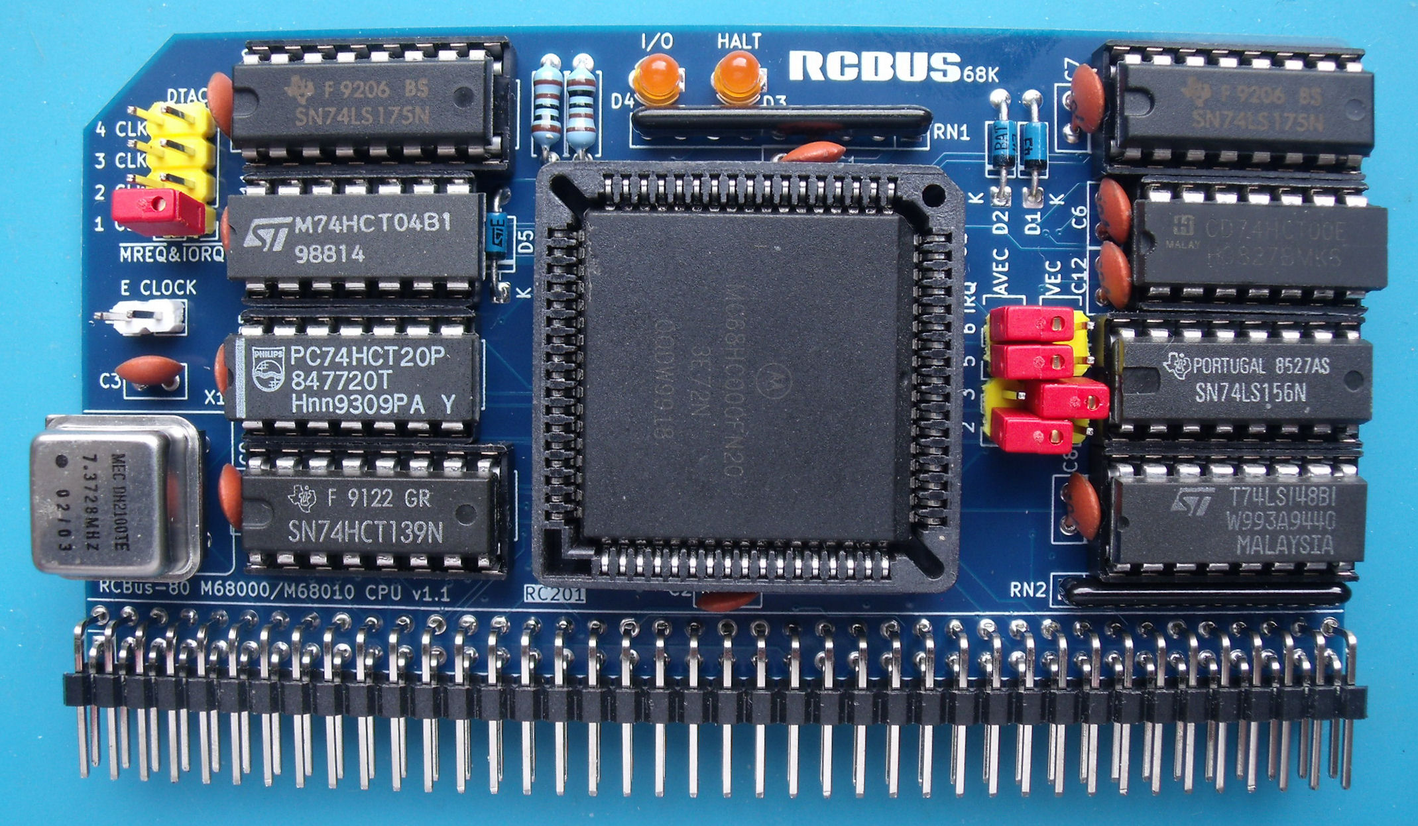
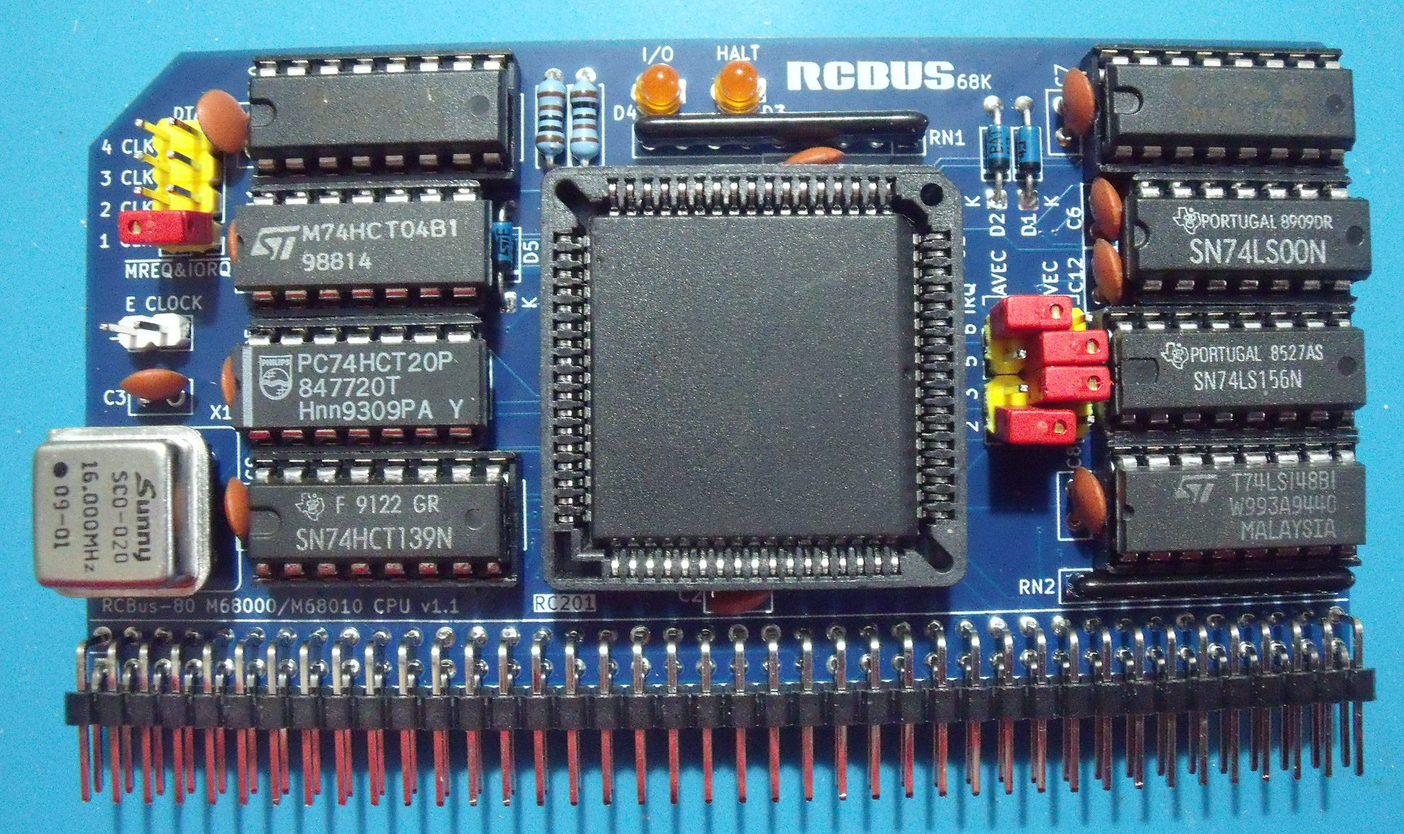
Updated 68000 & 68020

diff --git a/boards/RC205_68020_CPU_Board/README.md b/boards/RC205_68020_CPU_Board/README.md
@@ -1,25 +1,21 @@
 # RC205 - 68020 Processor Board
 
----
-**NOTE: There is an issue with this design that creates eratic operation when using speeds above 7.3728MHz - please do not use these board files until I sort it out.** 
----
-
 Actual image of the processor board under test with IRQ2 & IRQ6 configured for autovectored interrupts and IRQ3 & IRQ5 configured for vectored interrupts.
 
-![](../../images/RC205-68020_CPU_2.JPG)
+![](../../images/RC205_1.JPG)
 
 # Details
 The processor board consists of a PGA packaged MC68020 processor, a single CPLD, bits of glue logic and the processor clock source.
 
 The processor board is designed to plug into an RCBus-80 backplane and expects to find the stack pointer and initial program counter addresses at location 0x000000 onwards.
 
-**Note:** Please see the errors list at the end of this page, especially the one about the 4K7 pullup.
+**Note:** Please see the errors list at the end of this page, especially the one about the 4K7 pullup resistor.
 
 ## Reset
 The reset signal for the processor board must be supplied externally, entering the board via pin 20 of the RCBus connector. This should not be an issue if you are using one of Steve Cousins's backplanes.
 
 ## Processor Clock
-The processor/system clock source is an oscillator in an 8-pin DIL/DIP can (X1 in the schematic). Basic testing was done with a 7.3728MHz oscillator. 
+The processor/system clock source is an oscillator in an 8-pin DIL/DIP can (X1 in the schematic). Basic testing was done with a 7.3728MHz oscillator and, as confidence grew, a 16MHz oscillator. I don't intend to go beyond 16MHz as the RCBus backplane wasn't designed for such speeds.
 
 ## DTACK & Bus Error
 A /DTACK signal is generated using a counter within the ATF1502 CPLD only when an address within the /MREQ or /IORQ address windows are activated. At all other times, the external board is expected to provide its own /DTACK signal.

diff --git a/boards/RC201_68000_CPU_Board/README.md b/boards/RC201_68000_CPU_Board/README.md
@@ -9,13 +9,13 @@ The processor board consists of a PLCC packaged MC68000 processor, bits of glue 
 
 The processor board is designed to plug into an RCBus-80 backplane and expects to find the stack pointer and initial program counter addresses at location 0x000000 onwards.
 
-**Note:** Please see the errors list at the end of this page, especially the one about the 4K7 pullup.
+**Note:** Please see the errors list at the end of this page, especially the one about the 4K7 pullup resistor.
 
 ## Reset
 The reset signal for the processor board must be supplied externally, entering the board via pin 20 of the RCBus connector. This should not be an issue if you are using one of Steve Cousins's backplanes.
 
 ## Processor Clock
-The processor/system clock source is an oscillator in an 8-pin DIL/DIP can (X1 in the schematic). Basic testing was done with a 7.3728MHz oscillator. 
+The processor/system clock source is an oscillator in an 8-pin DIL/DIP can (X1 in the schematic). Basic testing was done with a 7.3728MHz oscillator and, as confidence grew, a 16MHz oscillator. I don't intend to go beyond 16MHz as the RCBus backplane wasn't designed for such speeds.
 
 There's also a jumper (J4) to allow the processor E clock to be routed onto the RCBus CLOCK2 pin (61) if required. However, note that the CLOCK2 pin may also be used by other boards such as the RC202 serial board (to share its 3.6864MHz UART clock). If this feature is used, then the E clock jumper **must not** be fitted.
 
